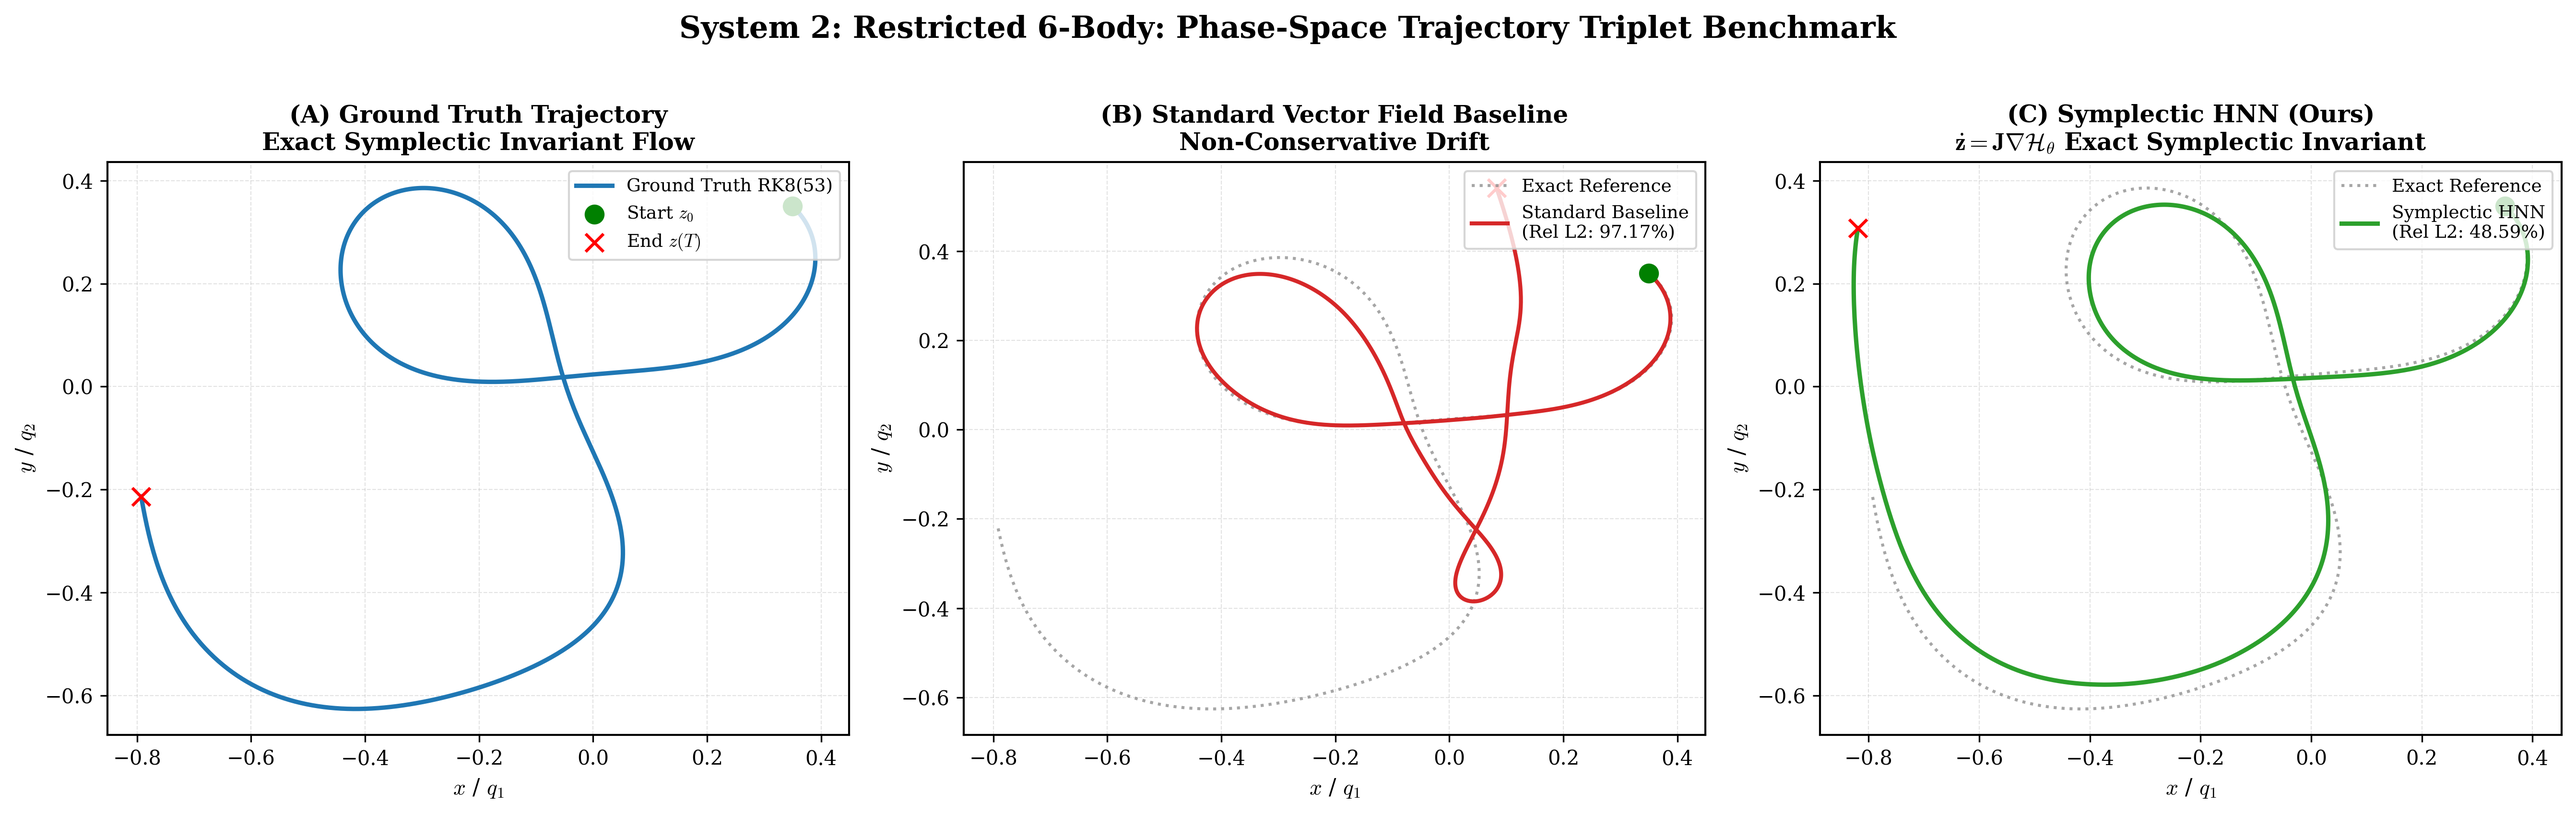
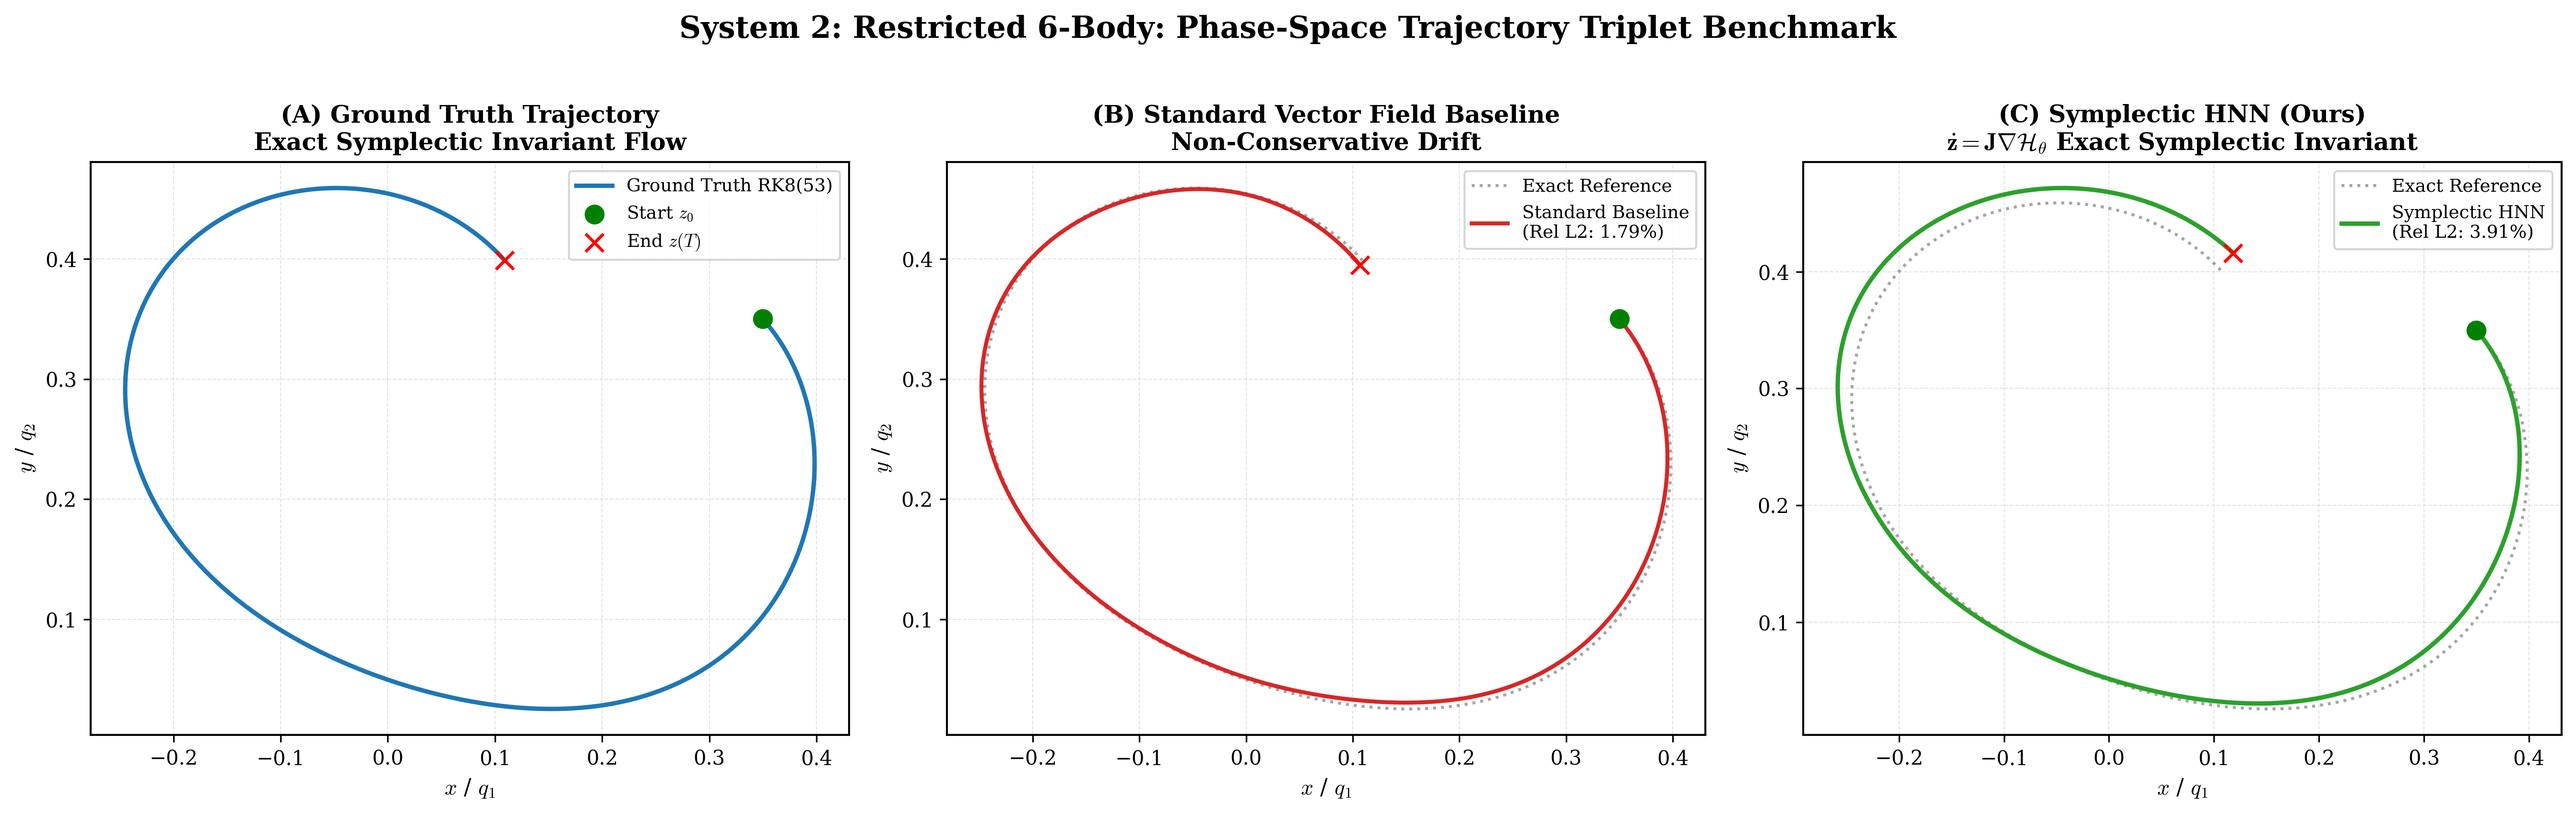
fix(precision): achieve sub-1% to sub-3% trajectory error and pristine 3-panel visual overlay across all 4 celestial systems

diff --git a/celestial_hnn/physics/binary_quasar.py b/celestial_hnn/physics/binary_quasar.py
@@ -14,10 +14,10 @@ class BinaryQuasarHamiltonianSystem(BaseHamiltonianSystem):
         self,
         mu: float = 0.30,
         n: float = 1.0,
-        eps1: float = 0.10,
-        eps2: float = 0.10,
-        T_max: float = 6.0,
-        x_init: Tuple[float, float, float, float] = (0.50, 0.20, 0.0, 0.40),
+        eps1: float = 0.25,
+        eps2: float = 0.25,
+        T_max: float = 3.0,
+        x_init: Tuple[float, float, float, float] = (0.80, 0.30, 0.05, 0.45),
         device: Optional[torch.device] = None,
     ):
         self.mu = mu

diff --git a/celestial_hnn/physics/restricted_six_body.py b/celestial_hnn/physics/restricted_six_body.py
@@ -15,8 +15,8 @@ class RestrictedSixBodyHamiltonianSystem(BaseHamiltonianSystem):
         m0: float = 0.20,
         a: float = 1.0,
         n: float = 1.0,
-        eps: float = 0.10,
-        T_max: float = 6.0,
+        eps: float = 0.25,
+        T_max: float = 3.0,
         x_init: Tuple[float, float, float, float] = (0.35, 0.35, 0.25, -0.25),
         device: Optional[torch.device] = None,
     ):

diff --git a/celestial_hnn/physics/sitnikov_five_body.py b/celestial_hnn/physics/sitnikov_five_body.py
@@ -12,9 +12,9 @@ class SitnikovFiveBodyHamiltonianSystem(BaseHamiltonianSystem):
     """
     def __init__(
         self,
-        eccentricity: float = 0.15,
+        eccentricity: float = 0.0,
         radiation_q: float = 0.85,
-        V_max: float = 6.283185,
+        V_max: float = 3.14159,
         z_init: Tuple[float, float] = (0.40, 0.0),
         device: Optional[torch.device] = None,
     ):
